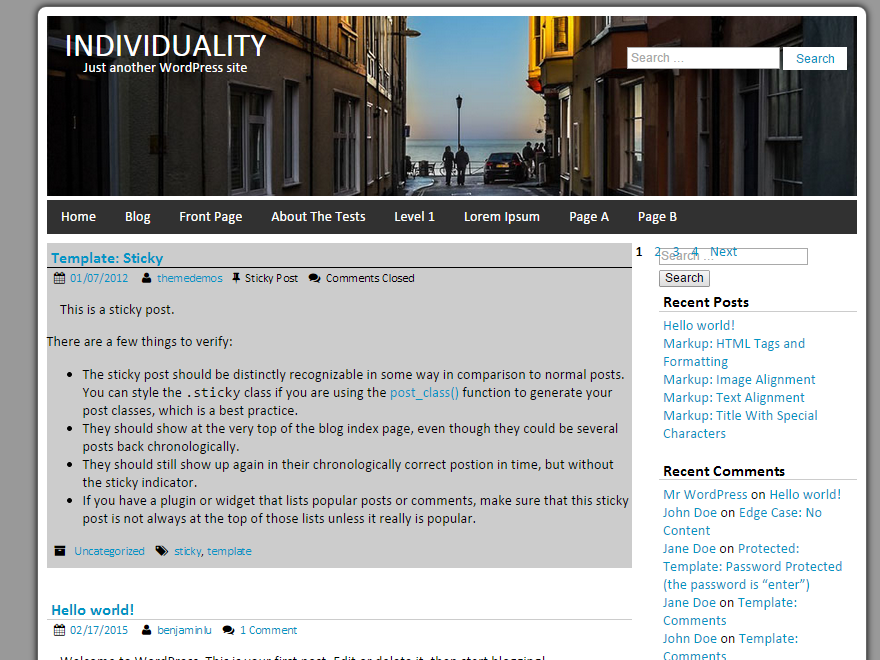
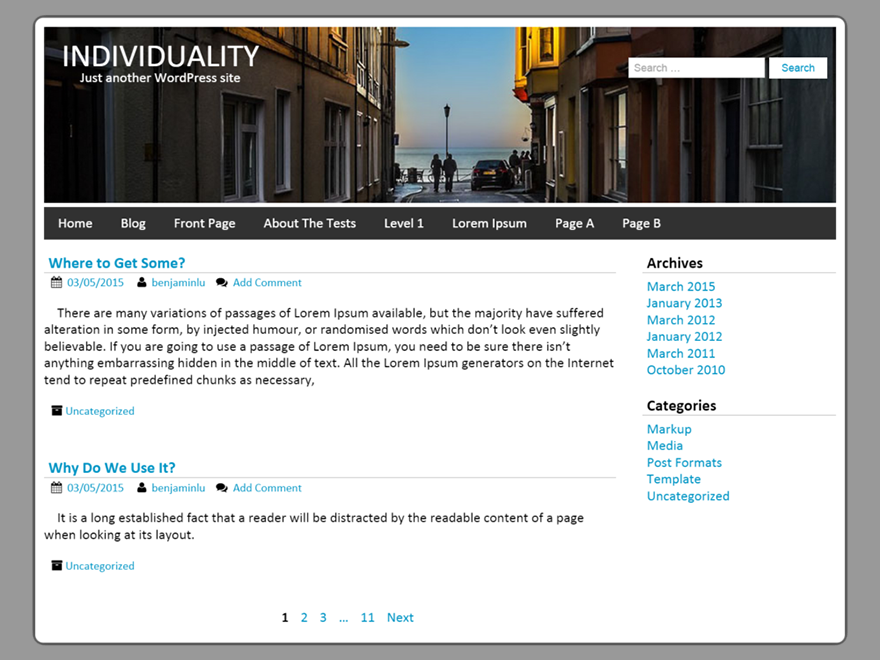
version: 0.1.0

diff --git a/style.css b/style.css
@@ -5,7 +5,7 @@ Description: Azul Silver is highly customizable, simple, and easy to navigate. A
 License: Azul Silver is distributed under the terms of the GNU GPL.
 License URI: http://www.gnu.org/licenses/gpl-2.0.html
 Tags: custom-colors, custom-header, custom-background, custom-menu, editor-style, featured-images, fixed-layout, gray, one-column, post-formats, right-sidebar, sticky-post, translation-ready, threaded-comments, two-columns
-Version: 0.0.9
+Version: 0.1.0
 Text Domain: azulsilver
 
 This theme like WordPress is licensed under the GPL.
@@ -310,6 +310,10 @@ nav {
 
 .medium-post-thumbnail {
 	margin-bottom: 10px;
+}
+
+.site-content-full {
+    
 }
 
 

diff --git a/page-templates/custom-nosidebar.php b/page-templates/custom-nosidebar.php
@@ -1,15 +1,17 @@
 <?php
 /*
- *  Template Name: Custom Sidebar
+ *  Template Name: No Sidebar
  */
 ?>
 <?php get_header(); ?>
     <?php if (have_posts()) : ?>
         <?php while(have_posts()) : the_post(); ?>
-            <?php get_template_part('content', 'page') ?>
+            <?php get_template_part('content', 'full-width'); ?>
     <?php endwhile; ?>
+		<div class = "post-navigation">
+			<?php azulsilver_paging_navigation(); ?>
+		</div>
     <?php else : ?>
             <?php get_template_part('content', 'none'); ?>
     <?php endif; ?>
-<?php get_sidebar('custom'); ?>
 <?php get_footer(); ?>

diff --git a/content-full-width.php b/content-full-width.php
@@ -1,0 +1,7 @@
+<section id = "site-content-full">
+	<article id = "post-<?php the_ID(); ?>" <?php post_class(); ?>>
+		<h1 class = "entry-title"><?php the_title(); ?></h1>   
+				<?php the_content(); ?>
+				<?php comments_template(); ?>
+	</article>
+</section>
